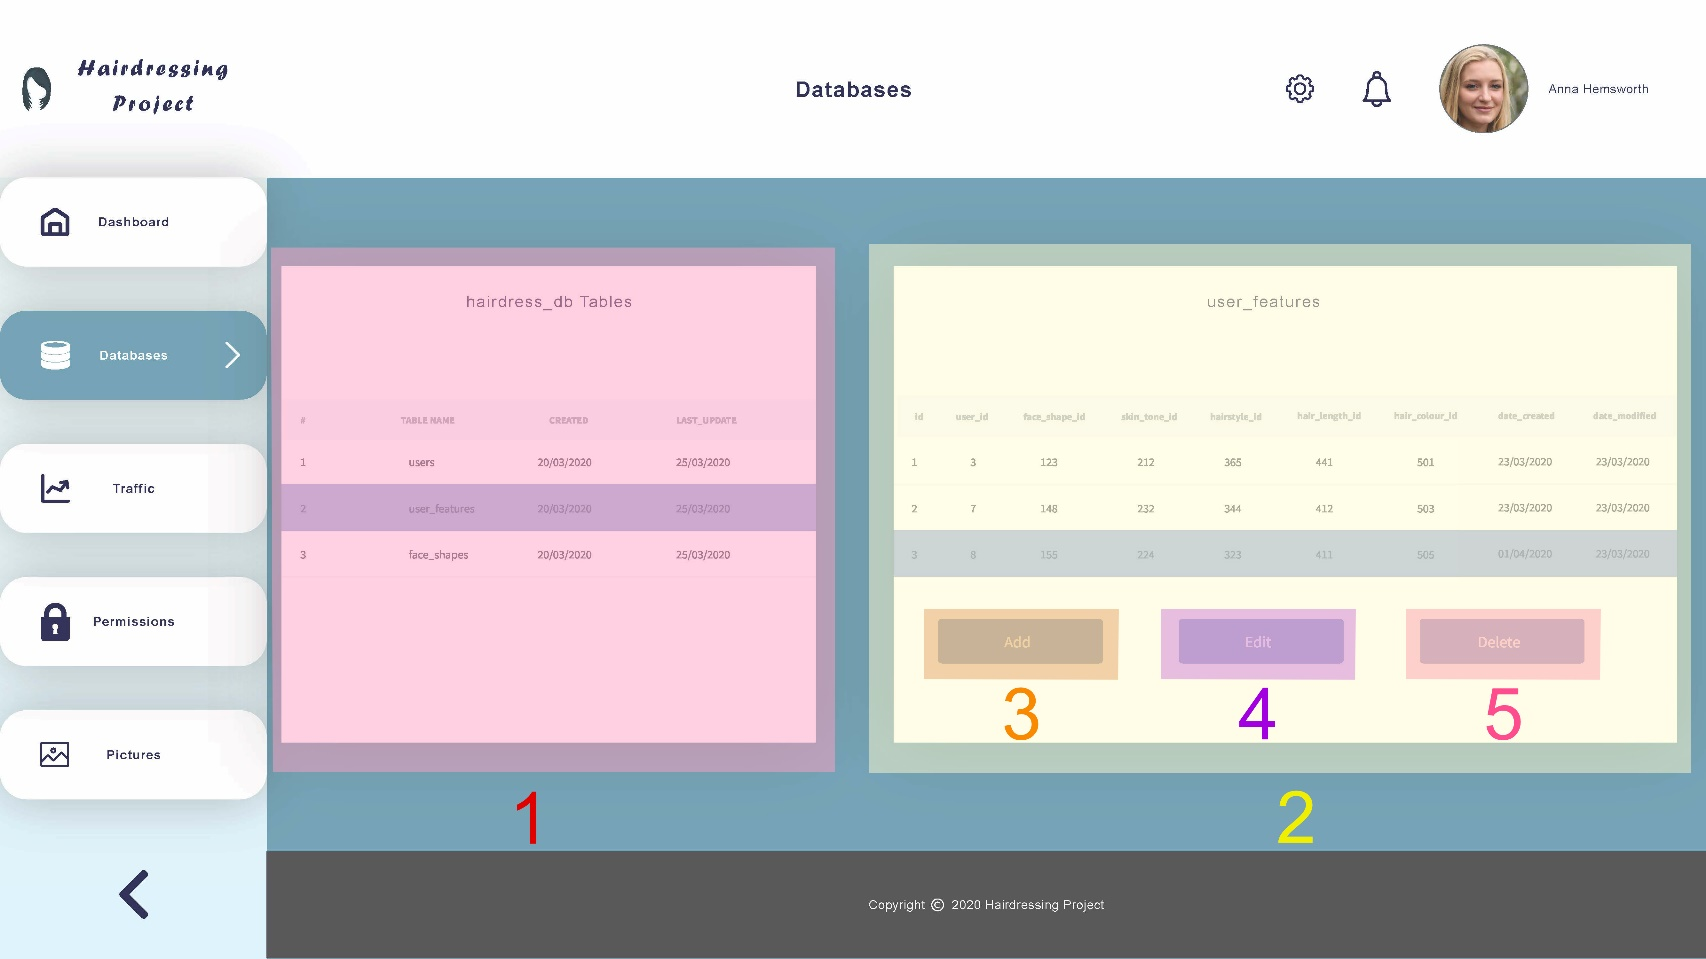
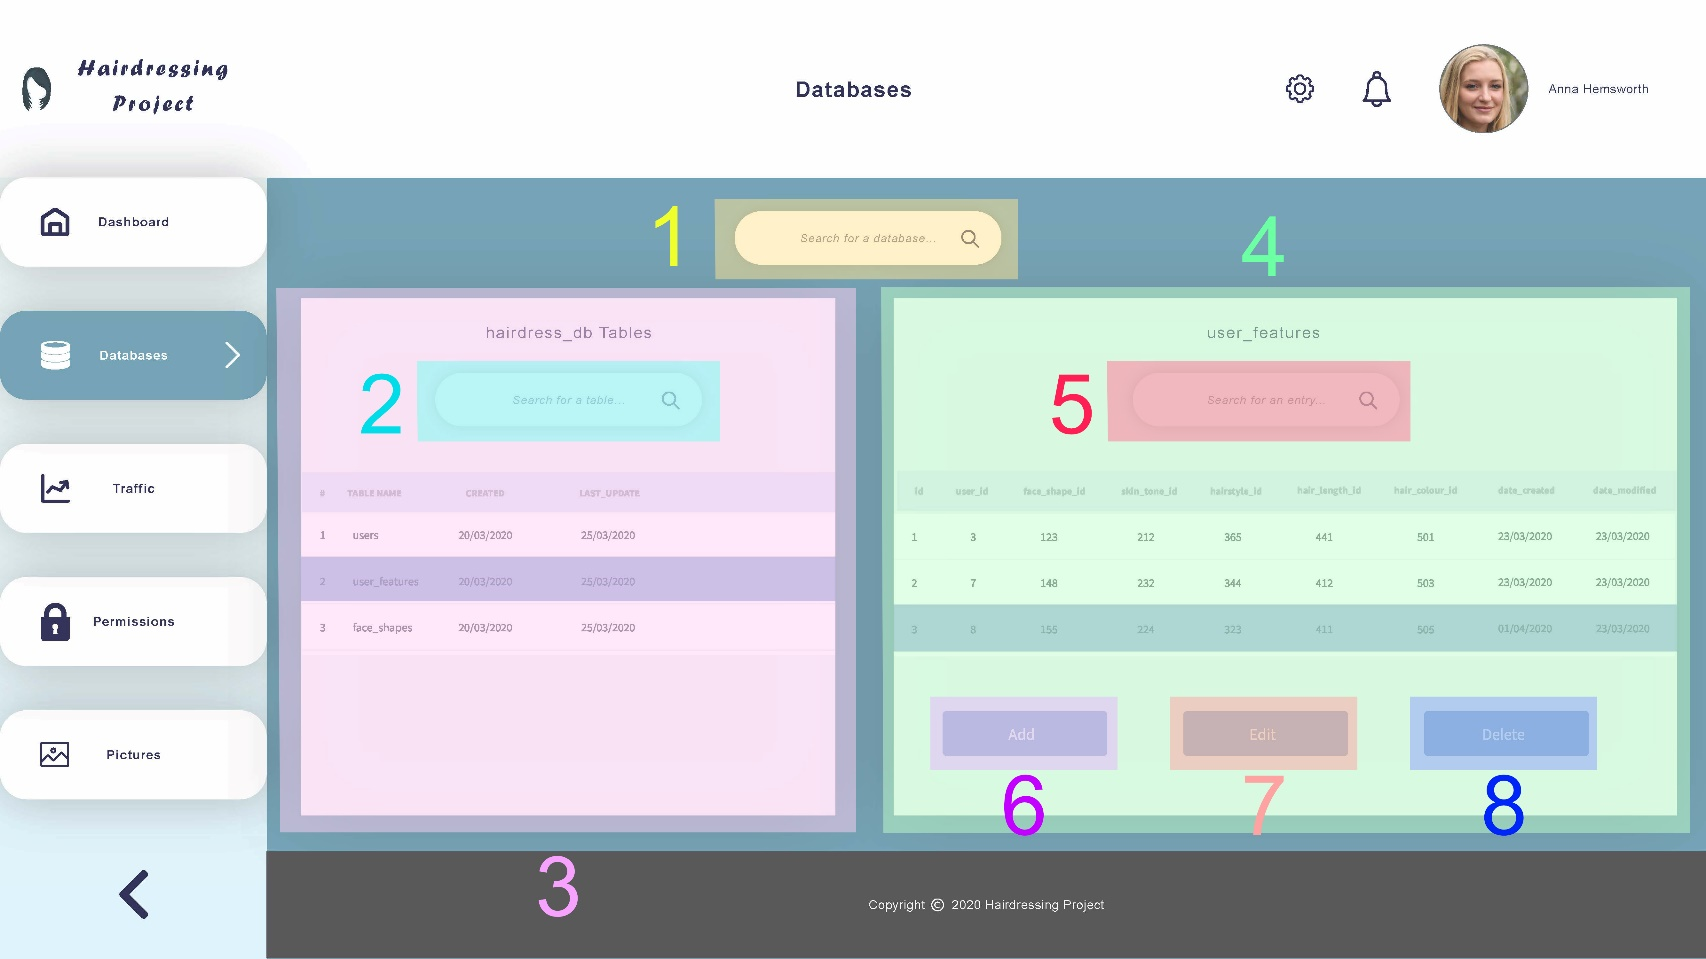
updated online docs

diff --git a/Documentation/pages/mydoc/mydoc_admin_functions.md b/Documentation/pages/mydoc/mydoc_admin_functions.md
@@ -221,7 +221,7 @@ folder: mydoc
 
 ## Databases
 
-{% include image.html file="databases.png" alt="Sign in screenshot" caption="Database page" %}
+{% include image.html file="databases.png" alt="Sign in screenshot" caption="Databases page" %}
 
 <ul id="databasesTabs" class="nav nav-tabs">
     <li class="active"><a href="#databasesDetails" data-toggle="tab">Details</a></li>
@@ -232,28 +232,123 @@ folder: mydoc
 
 <div role="tabpanel" class="tab-pane active" id="databasesDetails">
     <ul>
-        <li>The databases page should show all tables contained in each database (highlighted by (1)), with timestamps for created at and last updated dates.</li>
-        <li>When users select a row in the tables section, a new section should pop up at the right (2), showing all entries of the table selected. If no row in the latter is selected, the “edit” and “delete” buttons should remain inactive.</li>
-        <li>The “add” button allows users to create new entries in the selected table and the “edit” and “delete” buttons enable modification of the selected entry.</li>
-        <li>TODO:</li>
-            <ul>
-                <li>Add modals for add, edit and delete entries</li>
-                <li>Add search entry input field</li>
-            </ul>
+        <li>The databases page should show all tables contained in each database (highlighted by (3)), with timestamps for created at and last updated dates.</li>
+        <li>When users select a row in the tables section, a new section should pop up at the right (4), showing all entries of the table selected. If no row in the latter is selected, the “edit” and “delete” buttons should remain inactive.</li>
+        <li>The search input fields (1, 2, 5) let users look for a specific database, table or entry, respectively. As they type, the respective table should automatically display only relevant results. Clearing a field should restore the respective table to show all records.</li>
+        <li>The “add” button (6) allows users to create new entries in the selected table and the “edit” (7) and “delete” (8) buttons enable modification of the selected entry. See 6.1. (Add entry modal), 6.2. (Edit entry modal) and 6.3. (Delete entry modal) for more details.</li>
         <li>All other UI elements not outlined in the previous picture have already been covered.</li>
     </ul>
 </div>
 
 <div role="tabpanel" class="tab-pane" id="databasesFields">
     <ol>
-        <li>Tables section (for each database)</li>
-        <li>Selected table section</li>
+        <li>Search for a database input</li>
+        <li>Search for a table input</li>
+        <li>Tables section</li>
+        <li>Entries section</li>
+        <li>Search for an entry input</li>
         <li>Add new entry button</li>
-        <li>Edit entry button</li>
-        <li>Delete entry button</li>
+        <li>Edit selected entry button</li>
+        <li>Delete selected entry button</li>
+    </ol>
+</div>
+</div>
+
+
+## 6.1. Databases - Add entry modal
+
+{% include image.html file="databases_add_entry_modal.png" alt="Sign in screenshot" caption="Add entry modal" %}
+
+<ul id="addEntryModalTabs" class="nav nav-tabs">
+    <li class="active"><a href="#addEntryModalDetails" data-toggle="tab">Details</a></li>
+    <li><a href="#addEntryModalFields" data-toggle="tab">Fields</a></li>
+</ul>
+
+<div class="tab-content">
+
+<div role="tabpanel" class="tab-pane active" id="addEntryModalDetails">
+    <ul>
+        <li>The add entry modal should pop up when users click on the “add” button from the databases page.</li>
+        <li>When users click on the “cancel” button (7) or when they click outside of this modal, it should close.</li>
+        <li>When users click on the “clear” button (9), all input fields should be cleared.</li>
+        <li>Fields marked with (*) are required. A validation tooltip should appear when an input field is invalid.</li>
+        <li>The “add” button (8) should be disabled as long as at least one field is invalid or empty. If all fields are valid, it should turn active. Clicking on it should add a new entry to the selected table, close the modal and display a feedback message at the top of the window.</li>
+        <li><b>TODO:</b> Add error handling.</li>
+    </ul>
+</div>
+
+<div role="tabpanel" class="tab-pane" id="addEntryModalFields">
+    <ol>
+        <li>user_name input field (<b><u>required</b></u>)</li>
+        <li>user_email input field (<b><u>required</b></u>)</li>
+        <li>user_password input field (<b><u>required</b></u>)</li>
+        <li>first_name input field (<b><u>required</b></u>)</li>
+        <li>last_name input field</li>
+        <li>user_role dropdown (<b><u>required</b></u>)</li>
+        <li>Cancel add entry button</li>
+        <li>Add entry button</li>
+        <li>Clear all fields button</li>
     </ol>
 </div>
 
+<p><b>Note:</b> The users table was only shown as an example here. The same concepts apply to all other tables.</p> 
+</div>
+
+
+## 6.2. Databases - Edit entry modal
+
+{% include image.html file="databases_edit_entry_modal.png" alt="Sign in screenshot" caption="Edit entry modal" %}
+
+<ul id="editEntryModalTabs" class="nav nav-tabs">
+    <li class="active"><a href="#editEntryModalDetails" data-toggle="tab">Details</a></li>
+    <li><a href="#editEntryModalFields" data-toggle="tab">Fields</a></li>
+</ul>
+
+<div class="tab-content">
+
+<div role="tabpanel" class="tab-pane active" id="editEntryModalDetails">
+    <ul>
+        <li>The edit entry modal should pop up when users click on the “edit” button from the databases page.</li>
+        <li>When users click on the “restore” button (3), all input fields should be overwritten with their respective initial values.</li>
+        <li>The “edit” button (2) should be disabled as long as at least one field is invalid or empty. If all fields are valid, it should turn active. Clicking on it should edit the selected entry of the current table, close the modal and display a feedback message at the top of the window.</li>
+        <li>Every other UI element not mentioned here works in the way as 6.1.</li>
+    </ul>
+</div>
+
+<div role="tabpanel" class="tab-pane" id="editEntryModalFields">
+    <ol>
+        <li>Cancel edit entry button</li>
+        <li>Edit entry button</li>
+        <li>Restore all fields button</li>
+    </ol>
+</div>
+</div>
+
+## 6.3. Databases - Delete entry modal
+
+{% include image.html file="databases_delete_entry_modal.png" alt="Sign in screenshot" caption="Delete entry modal" %}
+
+<ul id="deleteEntryModalTabs" class="nav nav-tabs">
+    <li class="active"><a href="#deleteEntryModalDetails" data-toggle="tab">Details</a></li>
+    <li><a href="#deleteEntryModalFields" data-toggle="tab">Fields</a></li>
+</ul>
+
+<div class="tab-content">
+
+<div role="tabpanel" class="tab-pane active" id="deleteEntryModalDetails">
+    <ul>
+        <li>The delete entry modal should pop up when users click on the “delete” button from the databases page.</li>
+        <li>The “cancel” button (1) should close the modal and the “confirm” (2) button should delete the selected entry from the table, close the modal and then display a feedback message at the top of the window.</li>
+        <li>In this modal all fields should be read-only, since there is no need to modify any of them.</li>
+    </ul>
+</div>
+
+<div role="tabpanel" class="tab-pane" id="deleteEntryModalFields">
+    <ol>
+        <li>Cancel delete entry button</li>
+        <li>Confirm delete entry button</li>
+    </ol>
+</div>
 </div>
 
 

diff --git a/Documentation/pages/mydoc/mydoc_admin_wireframes.md b/Documentation/pages/mydoc/mydoc_admin_wireframes.md
@@ -15,9 +15,13 @@ folder: mydoc
 ## Dashboard
 {% include image.html file="/wireframes/Dashboard - Web 1920x1080.png" alt="Sign in screenshot" caption="Dashboard" %}
 ## Databases
-{% include image.html file="/wireframes/Databases 1 - Web - 1920x1080.png" alt="Sign in screenshot" caption="Databases 1" %}
-{% include image.html file="/wireframes/Databases 2 - Web - 1920x1080.png" alt="Sign in screenshot" caption="Databases 2" %}
-{% include image.html file="/wireframes/Databases 3 - Web - 1920x1080.png" alt="Sign in screenshot" caption="Databases 3" %}
+{% include image.html file="/wireframes/Databases 1 - Web - 1920x1080.jpg" alt="Sign in screenshot" caption="Databases 1" %}
+{% include image.html file="/wireframes/Databases 2 - Web - 1920x1080.jpg" alt="Sign in screenshot" caption="Databases 2" %}
+{% include image.html file="/wireframes/Databases 3 - Web - 1920x1080.jpg" alt="Sign in screenshot" caption="Databases 3" %}
+
+{% include image.html file="/wireframes/Databases - Add Entry - Web - 1920x1080.jpg" alt="Sign in screenshot" caption="Add entry modal" %}
+{% include image.html file="/wireframes/Databases - Edit Entry - Web - 1920x1080.jpg" alt="Sign in screenshot" caption="Edit entry modal" %}
+{% include image.html file="/wireframes/Databases - Delete Entry - Web - 1920x1080.jpg" alt="Sign in screenshot" caption="Delete entry modal" %}
 
 ## Permissions
 {% include image.html file="/wireframes/Permissions - Web 1920x1080.png" alt="Sign in screenshot" caption="Permissions 1" %}
